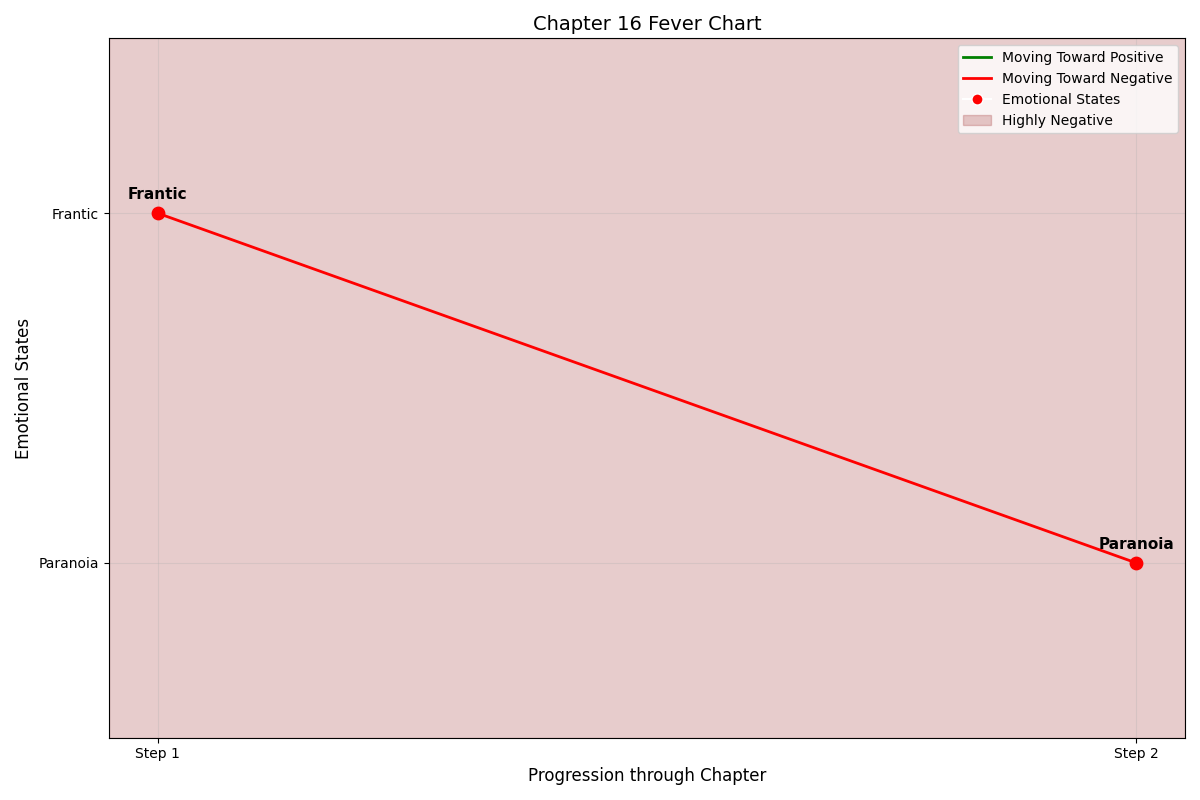
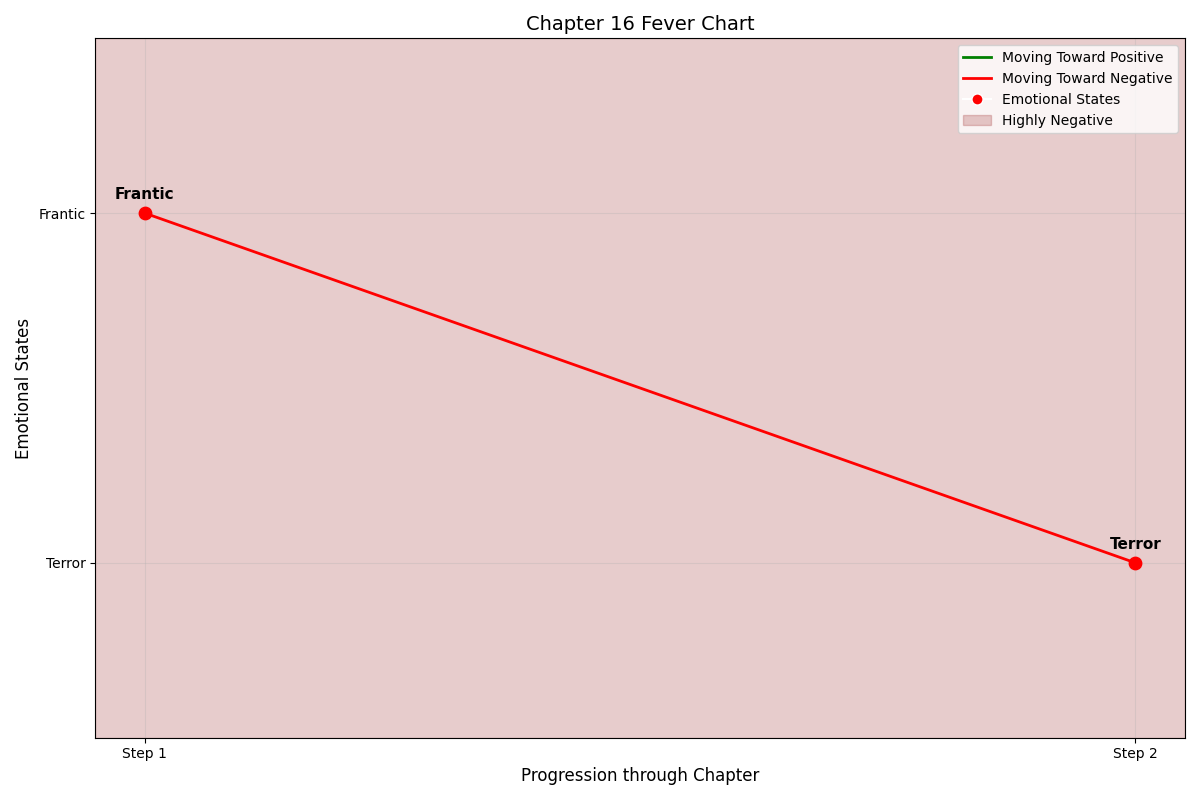
fixed normal fever chart

diff --git a/actualFeverChart/togetherFeverChart.py b/actualFeverChart/togetherFeverChart.py
@@ -2,6 +2,7 @@ import matplotlib.pyplot as plt
 import numpy as np
 from matplotlib.collections import LineCollection
 from matplotlib.colors import ListedColormap
+from matplotlib.lines import Line2D
 
 # Chapter numbers (x-axis)
 chapters = list(range(1, 21))
@@ -10,7 +11,7 @@ chapters = list(range(1, 21))
 emotion_scores = [
     20,  # Ch1: Enchantment
     16,  # Ch2: Naive
-    19,  # Ch3: Facination
+    19,  # Ch3: Fascination
     18,  # Ch4: Infatuation
     14,  # Ch5: Concern
     17,  # Ch6: Devotion
@@ -33,18 +34,15 @@ emotion_scores = [
 # Emotion labels
 emotion_labels = [
     "Enchantment", "Naive", "Fascination", "Infatuation", 
-    "Concern", "Devotion", "Cruelty", "Numbness", 
-    "Defensive", "Suspicious", "Curiosity", "Pride", 
+    "Concern", "Devotion", "Cruelty", "Remorse", 
+    "Defensive", "Unease", "Curiosity", "Pride", 
     "Fury", "Manipulative", "Irritable", "Frantic", 
     "Anxiety", "Paranoia", "Shame", "Disappointment"
 ]
 
-# Create a mapping of unique scores to positions for the y-axis
-# Invert the order for y-axis (now lowest score at bottom, highest at top)
-unique_scores = sorted(list(set(emotion_scores))) # No longer reversed - natural order
+# Invert y-axis: higher emotion scores (positive) at the bottom
+unique_scores = sorted(list(set(emotion_scores)), reverse=True)
 emotion_positions = {score: i for i, score in enumerate(unique_scores)}
-
-# Calculate the y position for each emotion based on its score
 y_positions = [emotion_positions[score] for score in emotion_scores]
 
 # Create the figure
@@ -55,88 +53,79 @@ points = np.array([chapters, y_positions]).T.reshape(-1, 1, 2)
 segments = np.concatenate([points[:-1], points[1:]], axis=1)
 
 # Determine direction of each segment (positive = up, negative = down)
-# Using y_positions rather than emotional scores because we're using the plot positions
 directions = []
 for i in range(len(y_positions)-1):
-    # If next y-position is higher, it's going toward more positive emotions
-    # (because we've inverted the axis)
     if y_positions[i+1] > y_positions[i]:
-        directions.append(1)  # Green for positive direction
+        directions.append(0)  # Green = emotionally improving
     else:
-        directions.append(0)  # Red for negative direction
+        directions.append(1)  # Red = emotionally worsening
 
-# Create a colormap with just two colors: red and green
+# Color map for line segments
 cmap = ListedColormap(['red', 'green'])
 norm = plt.Normalize(0, 1)
 lc = LineCollection(segments, cmap=cmap, norm=norm)
 lc.set_array(np.array(directions))
 lc.set_linewidth(2)
 
-# Add the colored line segments to the plot
-line = plt.gca().add_collection(lc)
+# Add line segments
+plt.gca().add_collection(lc)
 
-# Identify special chapters to highlight in red
+# Highlight specific chapters
 highlight_chapters = [3, 5, 12, 13, 14, 15, 16, 17, 18, 20]
-# Convert to 0-indexed for array access
 highlight_indices = [ch-1 for ch in highlight_chapters]
 
-# Plot points for all chapters
+# Plot chapter points
 plt.scatter(chapters, y_positions, s=80, color='blue', zorder=3)
-
-# Override color for highlighted chapters
 for idx in highlight_indices:
     plt.scatter(chapters[idx], y_positions[idx], s=80, color='red', zorder=4)
 
-# Create the y-tick labels corresponding to emotions
+# Y-axis labels
 y_tick_labels = []
 for score in unique_scores:
-    # Find the first emotion with this score
     for i, s in enumerate(emotion_scores):
         if s == score:
             y_tick_labels.append(emotion_labels[i])
             break
 
-# Set the y-ticks to show emotions instead of numerical values
 plt.yticks(range(len(unique_scores)), y_tick_labels)
 
-# Add labels and title
+# Emotional zones
+negative_scores = [s for s in unique_scores if s <= 6]
+neutral_scores = [s for s in unique_scores if 7 <= s <= 13]
+positive_scores = [s for s in unique_scores if s >= 14]
+
+negative_positions = [emotion_positions[s] for s in negative_scores]
+neutral_positions = [emotion_positions[s] for s in neutral_scores]
+positive_positions = [emotion_positions[s] for s in positive_scores]
+
+if negative_positions:
+    plt.axhspan(min(negative_positions) - 0.5, max(negative_positions) + 0.5,
+                alpha=0.2, color='darkred', label='Highly Negative')
+if neutral_positions:
+    plt.axhspan(min(neutral_positions) - 0.5, max(neutral_positions) + 0.5,
+                alpha=0.2, color='lightgray', label='Mixed/Neutral')
+if positive_positions:
+    plt.axhspan(min(positive_positions) - 0.5, max(positive_positions) + 0.5,
+                alpha=0.2, color='skyblue', label='Positive')
+
+# Add annotations for chapters
+for i, ch in enumerate(chapters):
+    color = 'red' if ch in highlight_chapters else 'black'
+    plt.annotate(f"Ch {ch}", (chapters[i], y_positions[i]),
+                 textcoords="offset points", 
+                 xytext=(0, 10), 
+                 ha='center',
+                 fontsize=9,
+                 color=color)
+
+# Labels and title
 plt.title('Fever Chart of "The Picture of Dorian Gray"', fontsize=16)
 plt.xlabel('Chapter', fontsize=14)
 plt.ylabel('Emotional States', fontsize=14)
 plt.xticks(chapters, fontsize=10)
-
-# Add a grid for better readability
 plt.grid(True, alpha=0.3)
 
-# Add chapter numbers as annotations to help trace the narrative journey
-for i, ch in enumerate(chapters):
-    # Make annotation red for highlighted chapters
-    color = 'red' if ch in highlight_chapters else 'black'
-    plt.annotate(f"Ch {ch}", (chapters[i], y_positions[i]),
-                textcoords="offset points", 
-                xytext=(0, 10), 
-                ha='center',
-                fontsize=9,
-                color=color)
-
-# Add colored bands to indicate emotional zones
-# Find positions for each emotional zone
-negative_positions = [pos for score, pos in emotion_positions.items() if score < 7]
-neutral_positions = [pos for score, pos in emotion_positions.items() if 7 <= score < 14]
-positive_positions = [pos for score, pos in emotion_positions.items() if score >= 14]
-
-if negative_positions:
-    plt.axhspan(min(negative_positions) - 0.5, max(negative_positions) + 0.5, 
-                alpha=0.2, color='darkred', label='Highly Negative')
-if neutral_positions:
-    plt.axhspan(min(neutral_positions) - 0.5, max(neutral_positions) + 0.5, 
-                alpha=0.2, color='lightgray', label='Mixed/Neutral')
-if positive_positions:
-    plt.axhspan(min(positive_positions) - 0.5, max(positive_positions) + 0.5, 
-                alpha=0.2, color='skyblue', label='Positive')
-
-# Add legend elements for line colors and point highlights
-from matplotlib.lines import Line2D
+# Legend
 legend_elements = [
     Line2D([0], [0], color='green', lw=2, label='Moving Toward Positive'),
     Line2D([0], [0], color='red', lw=2, label='Moving Toward Negative'),
@@ -144,26 +133,22 @@ legend_elements = [
     Line2D([0], [0], marker='o', color='w', markerfacecolor='blue', markersize=8, label='Chapters with Single Emotions'),
 ]
 
-# Add emotional zone indicators to legend
 if negative_positions:
-    legend_elements.append(plt.Rectangle((0,0), 1, 1, alpha=0.2, color='darkred', label='Highly Negative'))
+    legend_elements.append(plt.Rectangle((0, 0), 1, 1, alpha=0.2, color='darkred', label='Highly Negative'))
 if neutral_positions:
-    legend_elements.append(plt.Rectangle((0,0), 1, 1, alpha=0.2, color='lightgray', label='Mixed/Neutral'))
+    legend_elements.append(plt.Rectangle((0, 0), 1, 1, alpha=0.2, color='lightgray', label='Mixed/Neutral'))
 if positive_positions:
-    legend_elements.append(plt.Rectangle((0,0), 1, 1, alpha=0.2, color='skyblue', label='Positive'))
+    legend_elements.append(plt.Rectangle((0, 0), 1, 1, alpha=0.2, color='skyblue', label='Positive'))
 
-# Add a legend with all elements
-plt.legend(handles=legend_elements, loc='upper right')
+plt.legend(handles=legend_elements, loc='upper left')
 
-# Set proper y-axis limits to avoid cutting off points
+# Final layout and save
 plt.ylim(-0.5, len(unique_scores)-0.5)
-
-# Save and show the plot
 plt.tight_layout()
 plt.savefig('actualFeverChart/dorian_gray_fever_chart.png', dpi=300)
 plt.close()
 
-# Print the data to verify
+# Print chapter breakdown
 print("Chapter-by-Chapter Emotional States:")
 print("-" * 40)
 for i in range(len(chapters)):

diff --git a/actualFeverChart/actualFeverChart.py b/actualFeverChart/actualFeverChart.py
@@ -207,7 +207,7 @@ plt.close()
 # Chapter 16: Frantic
 plot_chapter_emotion_progression(
     chapter_num=16,
-    emotions=["Frantic", "Paranoia"],
+    emotions=["Frantic", "Terror"],
     scores=[4, 2]
 )
 plt.savefig('actualFeverChart/chapter16_emotions_updated.png')
